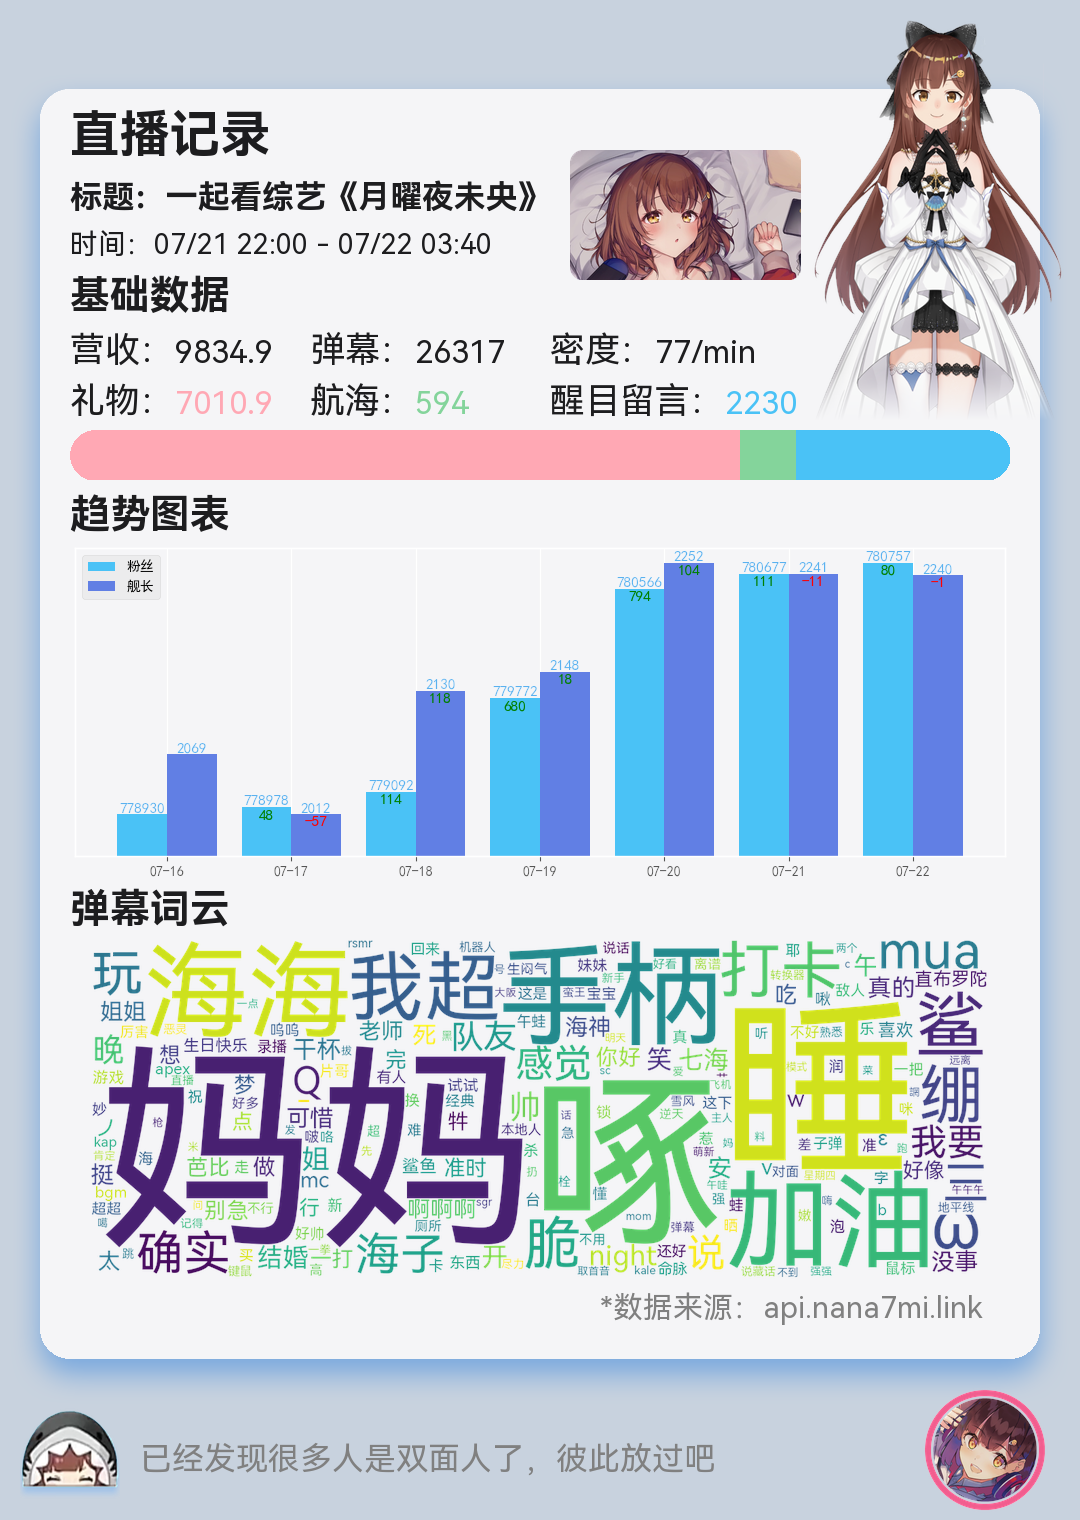
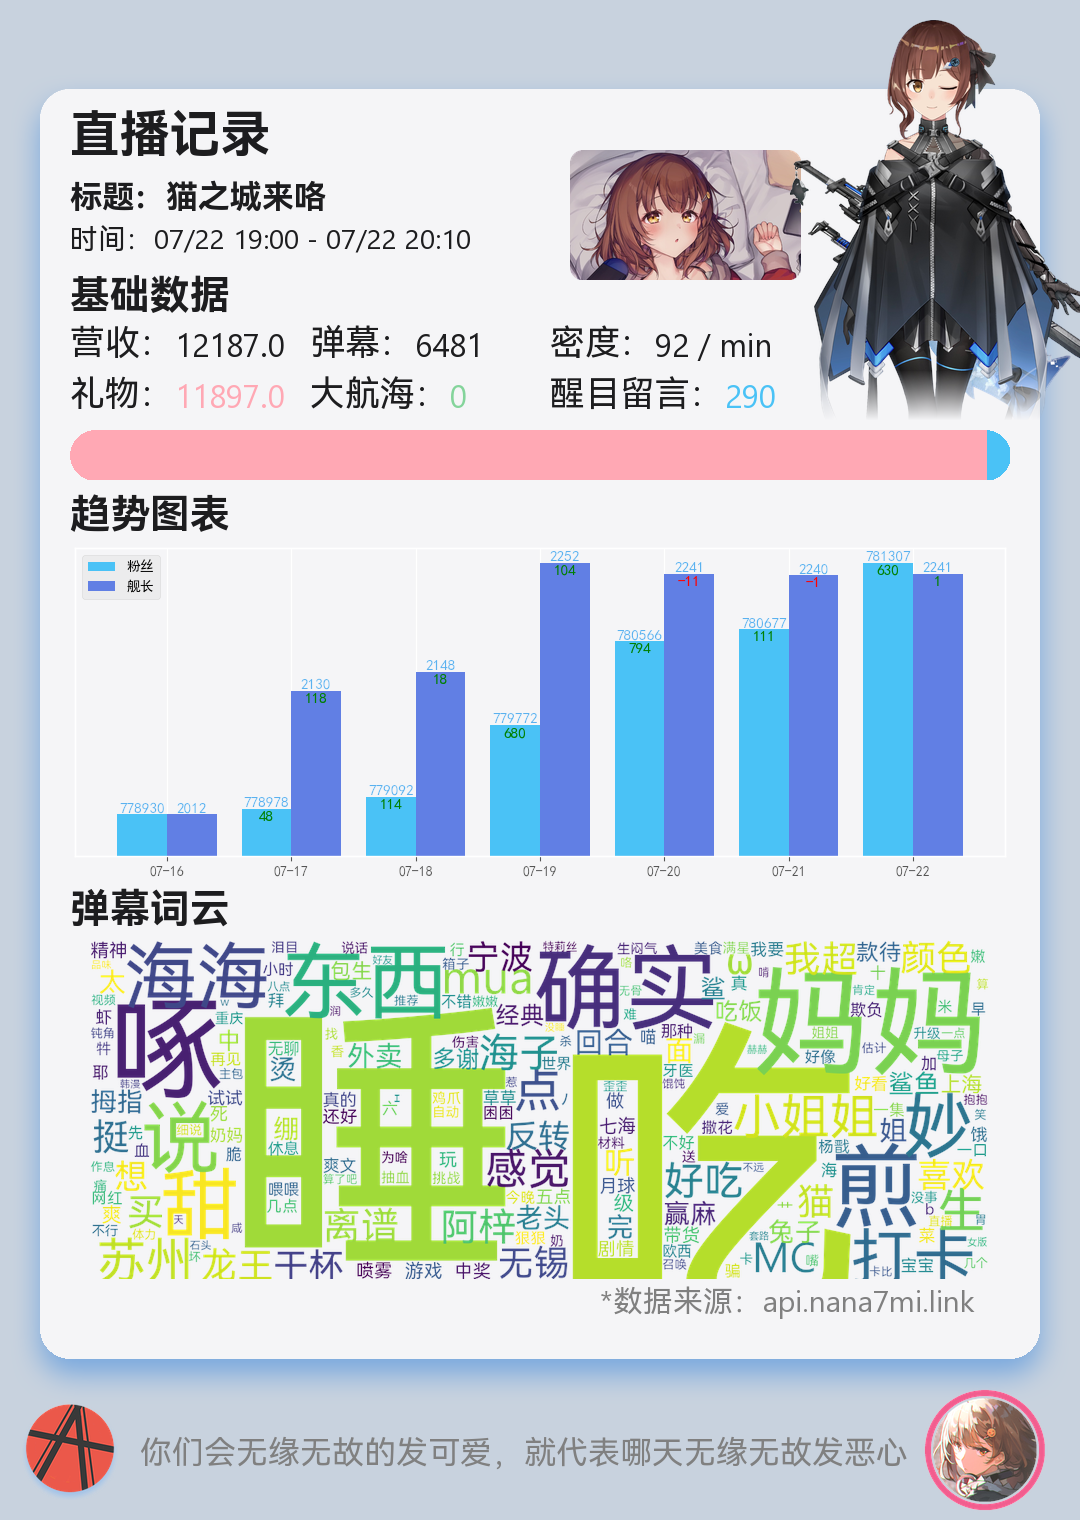
改了很多 忘了都有啥了

diff --git a/plugins/_live2pic.py b/plugins/_live2pic.py
@@ -315,7 +315,12 @@ class Live2Pic:
 
         quotations = [
             '你们会无缘无故的发可爱，就代表哪天无缘无故发恶心',
-            '已经发现很多人是双面人了，彼此放过吧'
+            '已经发现很多人是双面人了，彼此放过吧',
+            '看到这种就很 sad 但是确实是我的错喔',
+            '我选大招我是觉得有用的 我干嘛非得 Q 啊',
+            '你又觉得自己精神胜利了是吧 你是不是散兵啊',
+            '哎呀 那 那你 那没办法 那铁轨总得创死一个人',
+            '我真的怀疑有些人闲的程度啊 实在闲的没事就去把村口的大粪挑了吧'
         ]
 
         t2s = lambda tt: time.strftime('%m/%d %H:%M', time.localtime(tt))
@@ -332,8 +337,8 @@ class Live2Pic:
         total_income = self.liveinfo['send_gift'] + self.liveinfo['guard_buy'] + self.liveinfo['super_chat_message']
 
         basicData = [
-            [('营收：', round(total_income, 2), self.text_color), ('弹幕：', self.liveinfo['total'], self.text_color), ('密度：', str(self.liveinfo['total']*60//(self.liveinfo['sp']-self.liveinfo['st']))+'/min', self.text_color)],
-            [('礼物：', round(self.liveinfo['send_gift'], 2), (255, 168, 180)), ('航海：', round(self.liveinfo['guard_buy'], 2), (132, 212, 155)), ('醒目留言：', round(self.liveinfo['super_chat_message'], 2), (74, 194, 246))],
+            [('营收：', round(total_income, 2), self.text_color), ('弹幕：', self.liveinfo['total'], self.text_color), ('密度：', str(self.liveinfo['total']*60//(self.liveinfo['sp']-self.liveinfo['st']))+' / min', self.text_color)],
+            [('礼物：', round(self.liveinfo['send_gift'], 2), (255, 168, 180)), ('大航海：', round(self.liveinfo['guard_buy'], 2), (132, 212, 155)), ('醒目留言：', round(self.liveinfo['super_chat_message'], 2), (74, 194, 246))],
         ]
 
         for i, rows in enumerate(basicData):  # 写“基础数据”文字
@@ -360,7 +365,7 @@ class Live2Pic:
 
         self.bg.paste(body, (935-w//2, 20), mask=a)
 
-        card = Image.open(f'{self.folder}card{randint(0,1)}.png')
+        card = Image.open(f'{self.folder}card{randint(0, 3)}.png')
         card = card.resize((100, 100), Image.ANTIALIAS)
         self.bg.paste(card, (20, 1400), mask=card.getchannel('A'))
 

diff --git a/nana7mi/adapter/cqBot/cqbot.py b/nana7mi/adapter/cqBot/cqbot.py
@@ -1,7 +1,9 @@
 import asyncio
 import logging
+from functools import wraps
 from json import dumps
 from typing import List
+
 from aiowebsocket.converses import AioWebSocket
 
 from . import _group, _private
@@ -16,6 +18,7 @@ class cqBot():
 
     def setResponse(self, command=None, limit={}):
         def response_function(func):
+            @wraps(func)
             @Message.on_command(command)
             @Message.limit(**limit)
             async def wrapper(event):
@@ -49,6 +52,7 @@ class cqBot():
     async def run(self):
         recv = await self.connect()
         resp = self.response
+        loop = asyncio.get_event_loop()
         while True:
             mes = await recv()
             event = get_event_from_msg(mes)
@@ -58,11 +62,9 @@ class cqBot():
                 elif event.event_type == 'heartbeat':
                     self.logger.debug('心跳中，将在 '+str(event.interval/1000)+' 秒后下次心跳 ')
             elif isinstance(event, Message):
-                pending = [asyncio.create_task(func(event)) for func in resp]
-                while pending:
-                    done, pending = await asyncio.wait(pending, return_when=asyncio.FIRST_COMPLETED)
-                    for done_task in done:
-                        await self.send(await done_task)
+                for func in resp:
+                    loop.create_task(func(event)).add_done_callback(lambda task: loop.create_task(self.send(task.result())))
+                # ok 了家人们 这是最神奇的一行代码 写出它我都感觉自己贼牛
             else:
                 self.logger.debug(f'收到信息：{mes.decode("utf-8").strip()}')
 
@@ -71,6 +73,9 @@ class cqBot():
             return
         elif isinstance(cmd, str):
             await self.converse.send(cmd)
+        elif isinstance(cmd, (list, tuple)):
+            for c in cmd:
+                await self.converse.send(c)
         else:
             try:
                 js = dumps(cmd, ensure_ascii=False)

diff --git a/nana7mi/__init__.py b/nana7mi/__init__.py
@@ -10,6 +10,14 @@ from apscheduler.schedulers.asyncio import AsyncIOScheduler
 
 from .adapter.cqBot import cqBot
 
+CQ_PATH = 'C:/Users/drelf/Desktop/nanamiBot'
+Headers = {
+    'Connection': 'keep-alive',
+    'Accept-Language': 'zh-CN,zh;q=0.9',
+    'Accept-Encoding': 'gzip, deflate',
+    'Upgrade-Insecure-Requests': '1',
+    'User-Agent': 'Mozilla/5.0 (Windows NT 6.1; WOW64) AppleWebKit/537.36 (KHTML, like Gecko) Chrome/62.0.3202.62 Safari/537.36'
+}
 
 class Nana7mi:
     _logger = logging.getLogger('Nana7mi')
@@ -35,13 +43,21 @@ class Nana7mi:
         self.run_time = lambda seconds: datetime.datetime.now() + datetime.timedelta(seconds=seconds)
 
     def load_plugins(self, folder: str):
-        sys.path = [folder] + sys.path
+        sys.path.append(folder)
+        loaded_plugins = len(self.cqbot.response)
+        if loaded_plugins:
+            self.info('已加载内部模块', id='Nana7mi')
+            for func in self.cqbot.response:
+                self.info(f' » {func.__name__}()', id='Nana7mi')
         for root, dirs, files in os.walk(folder):
             for file in files:
-                if not file.startswith('!') and file.endswith('.py'):
+                if not file.startswith('_') and file.endswith('.py'):
                     try:
                         import_module(file.replace('.py', ''))
-                        self.info(f'{file} 加载完成', id='Nana7mi')
+                        self.info(f'{file} 已加载', id='Nana7mi')
+                        for func in self.cqbot.response[loaded_plugins:]:
+                            self.info(f' » {func.__name__}()', id='Nana7mi')
+                        loaded_plugins = len(self.cqbot.response)
                     except Exception as e:
                         self.error(f'{file} 加载错误：{e}', id='Nana7mi')
             break

diff --git a/plugins/live2pic.py b/plugins/live2pic.py
@@ -1,18 +1,16 @@
 import time
 
 from bilibili_api import live
-from nana7mi import get_bot
+from nana7mi import CQ_PATH, get_bot
 from nana7mi.adapter.cqBot.event import Message
 
-from plugins.live_pic.live2pic import Live2Pic
-
+from plugins._live2pic import Live2Pic
 
 bot = get_bot()
 name = '七海Nana7mi'
 uid = 434334701
 room_id = 21452505
 liveroom = live.LiveDanmaku(room_id)  # 接收弹幕, debug=True
-CQ_PATH = '../nanamiBot'
 
 async def auto_pic():
     try:
@@ -46,16 +44,22 @@ async def preparing(event):
         await bot.send_all_group_msg('生成直播场报失败', id='live')
 
 
+start_time: int = 0
+
 # 开播/直播中
 @liveroom.on('LIVE')
 async def send_live_info(event):
-    room = live.LiveRoom(room_id)
-    info = await room.get_room_info()
-    name = info['anchor_info']['base_info']['uname']
-    title = info['room_info']['title']
-    area = info['room_info']['area_name']
-    cover = info['room_info']['cover']
-    await bot.send_all_group_msg(f'{name} 正在 {area} 分区直播\n标题：{title}[CQ:image,file={cover}]', id='live')
+    global start_time
+    tt = time.time()
+    if tt - start_time > 300:
+        start_time = tt
+        room = live.LiveRoom(room_id)
+        info = await room.get_room_info()
+        name = info['anchor_info']['base_info']['uname']
+        title = info['room_info']['title']
+        area = info['room_info']['area_name']
+        cover = info['room_info']['cover']
+        await bot.send_all_group_msg(f'{name} 正在 {area} 分区直播\n标题：{title}[CQ:image,file={cover}]', id='live')
 
 
 # 重启监听

diff --git a/run.py b/run.py
@@ -1,18 +1,38 @@
-from nana7mi import get_bot, cqBot
-import asyncio
+import asyncio
+import os
+import re
+
 import httpx
+
+from nana7mi import CQ_PATH, Headers, cqBot, get_bot
+from nana7mi.adapter.cqBot.event import Message
 
 bot = get_bot(cqbot=cqBot())
 
 # 响应来自 cqbot 的回声命令
 @bot.cqbot.setResponse(command='/echo')
-async def echo(event):
+async def echo(event: Message):
+    bot.info(str(event), 'echo')
     return event.reply(' '.join(event.args).replace('&#91;', '[').replace('&#93;', ']'))
 
 # 响应来自 cqbot 的大图命令
 @bot.cqbot.setResponse(command='/big')
-async def big(event):
-    return event.reply(' '.join(event.args).replace(',subType=0', '').replace('CQ:image', 'CQ:cardimage').replace('&#91;', '[').replace('&#93;', ']'))
+async def big(event: Message):
+    pics = re.findall(r'[A-Za-z0-9]+\.image', str(event))
+    urls = []
+    async with httpx.AsyncClient(headers=Headers) as session:
+        for pic in pics:
+            with open(os.path.join(CQ_PATH, 'data', 'images', pic), 'rb') as f:
+                content = f.read()
+                pos = content.find(b'http')
+                url = content[pos:].decode('utf-8')
+                r = await session.get(url)
+                content = r.read()
+                file = pic.replace('.image', '.png')
+                with open(os.path.join(CQ_PATH, 'data', 'images', file), 'wb') as fp:
+                    fp.write(content)
+                urls.append(f'[CQ:cardimage,file={file}]')
+    return event.reply(urls)
 
 
 class Online:

diff --git a/plugins/weibo.py b/plugins/weibo.py
@@ -1,12 +1,11 @@
 import os
 
-from nana7mi import get_bot
+from nana7mi import get_bot, CQ_PATH
 
 from plugins.weibo_detector.d2p import create_new_img
 from plugins.weibo_detector.weibo import get_data, get_post, get_userInfo, headers
 
 bot = get_bot()
-CQ_PATH = '../nanamiBot'
 
 async def weibo(uid):
     bot.info(f'正在更新用户 {uid} 微博', 'Weibo')

diff --git a/plugins/_chat.py b/plugins/_chat.py
@@ -7,6 +7,7 @@ bot = get_bot()
 # 响应来自 cqbot 的一般消息命令
 @bot.cqbot.setResponse(limit={'at': True})
 async def chat(event: Message):
+    bot.info(event, 'chat')
     url = 'http://api.qingyunke.com/api.php?'
     dic = {
         'key': 'free',
